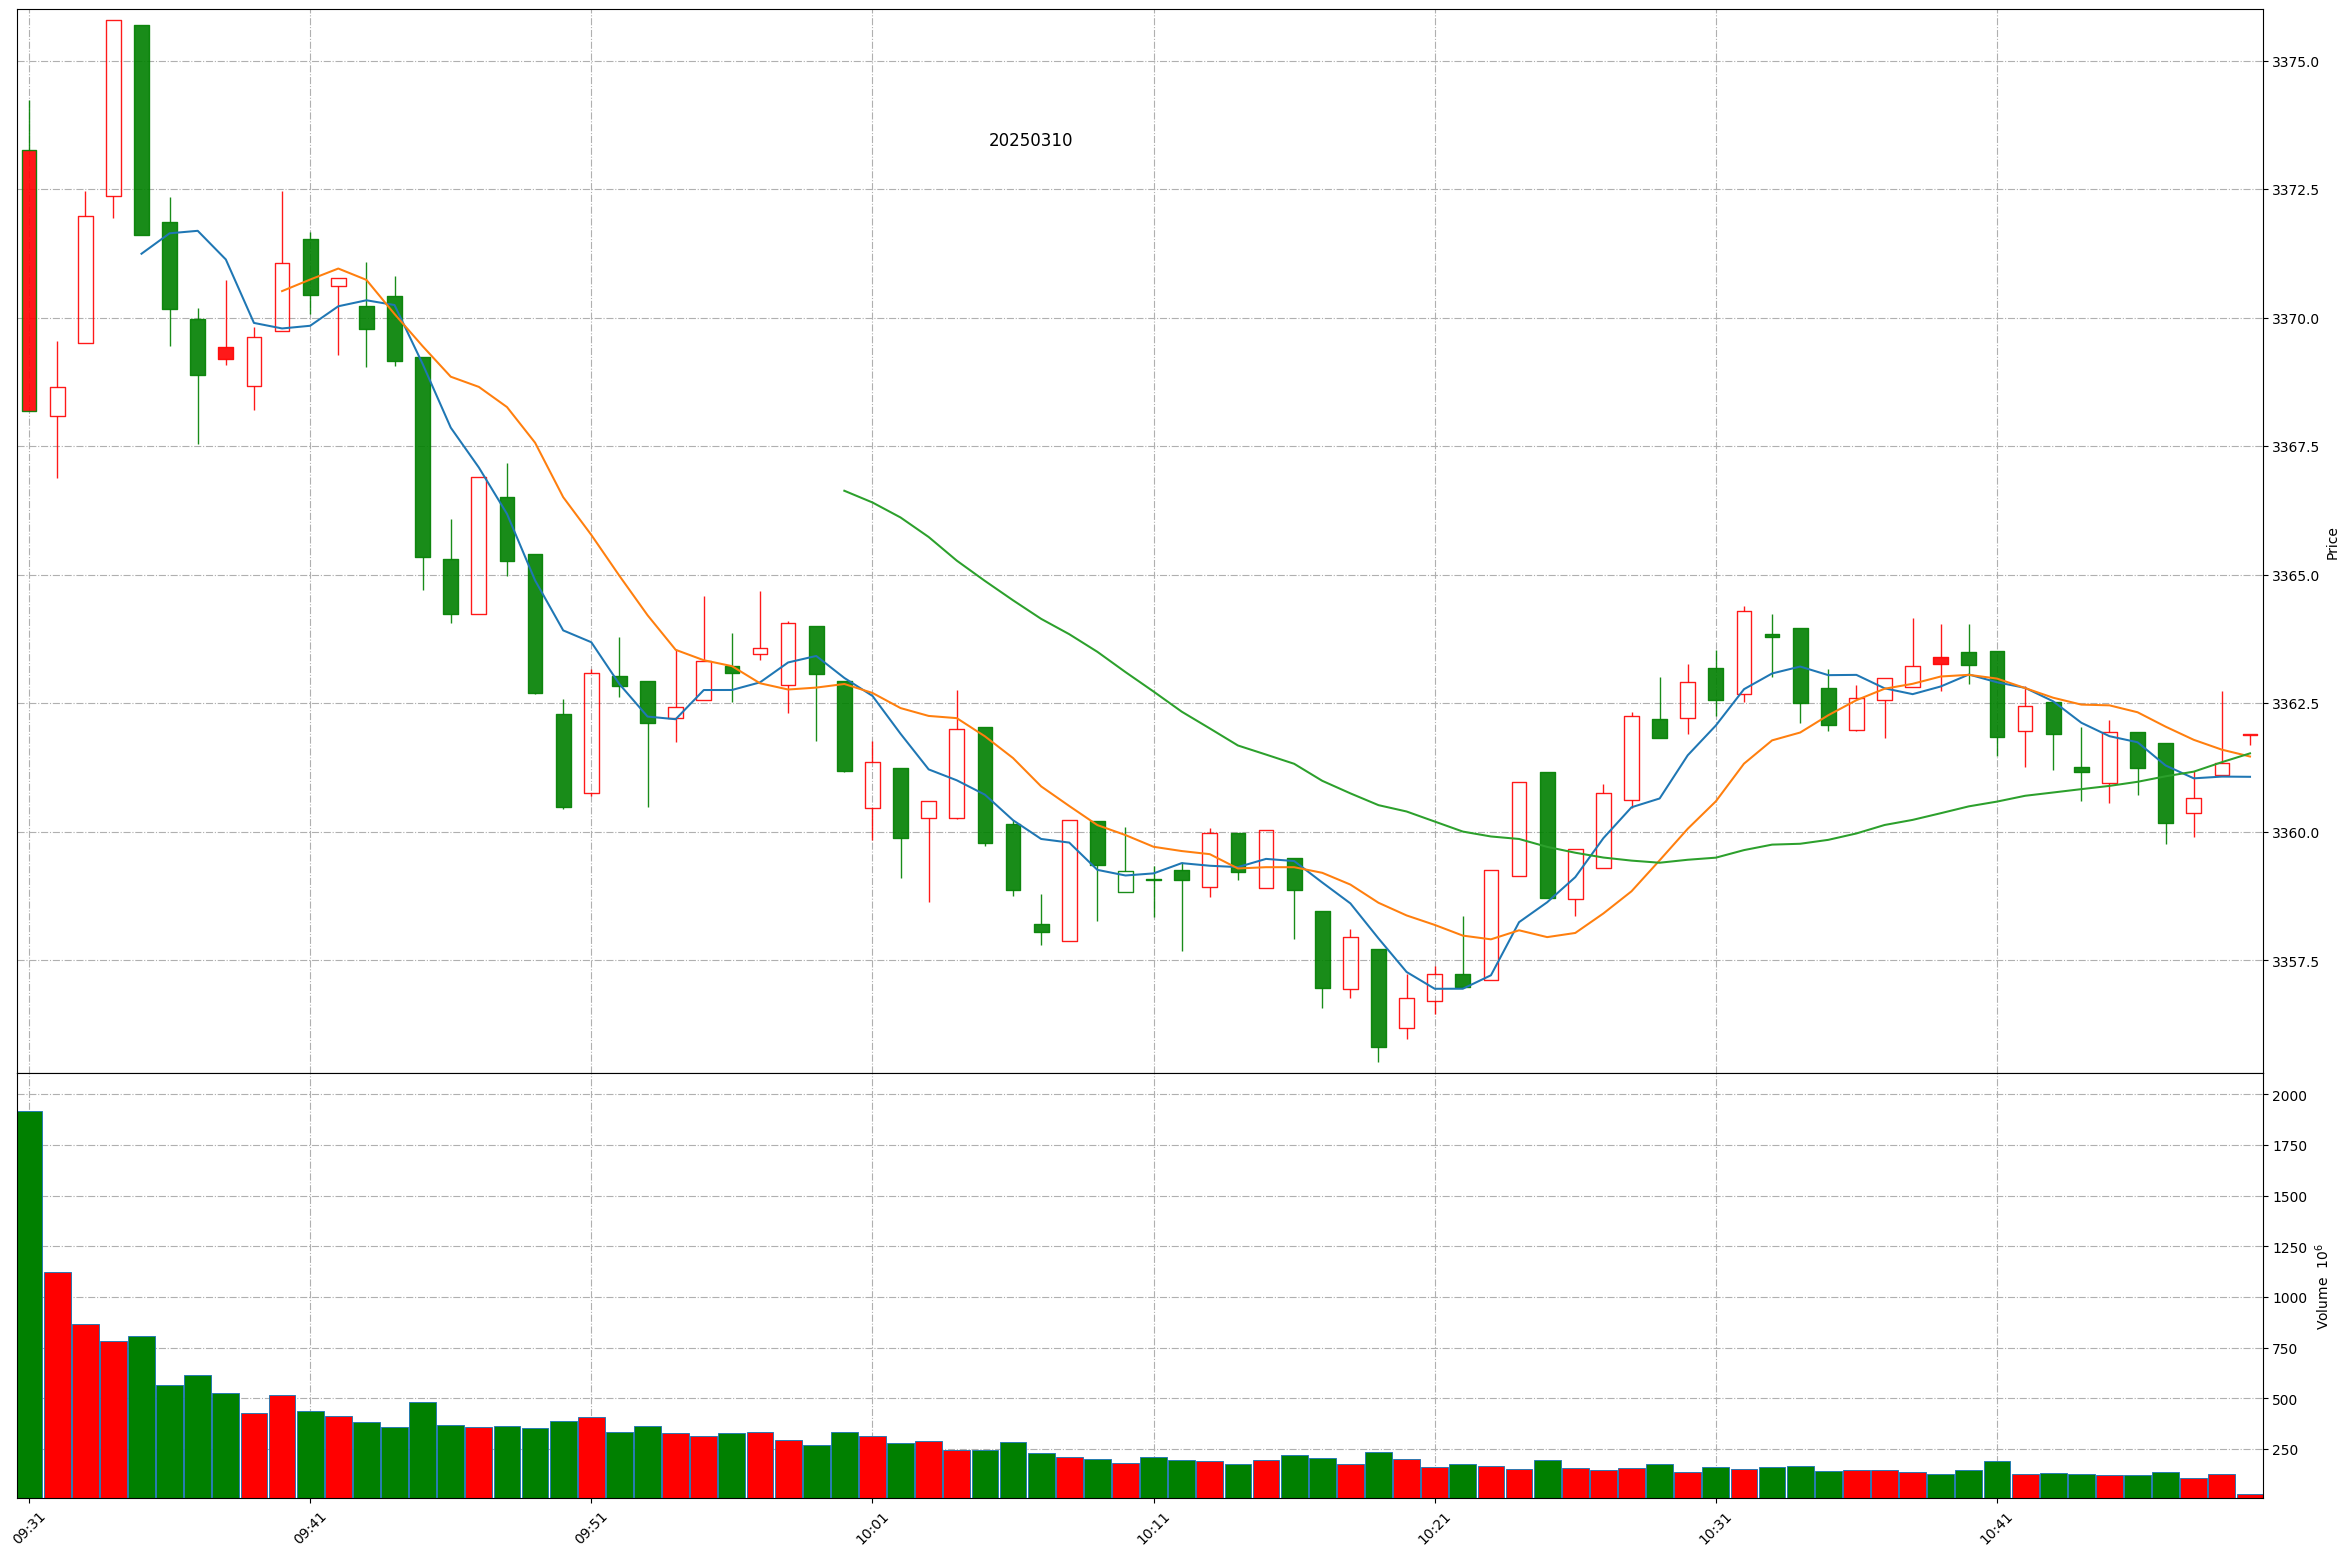
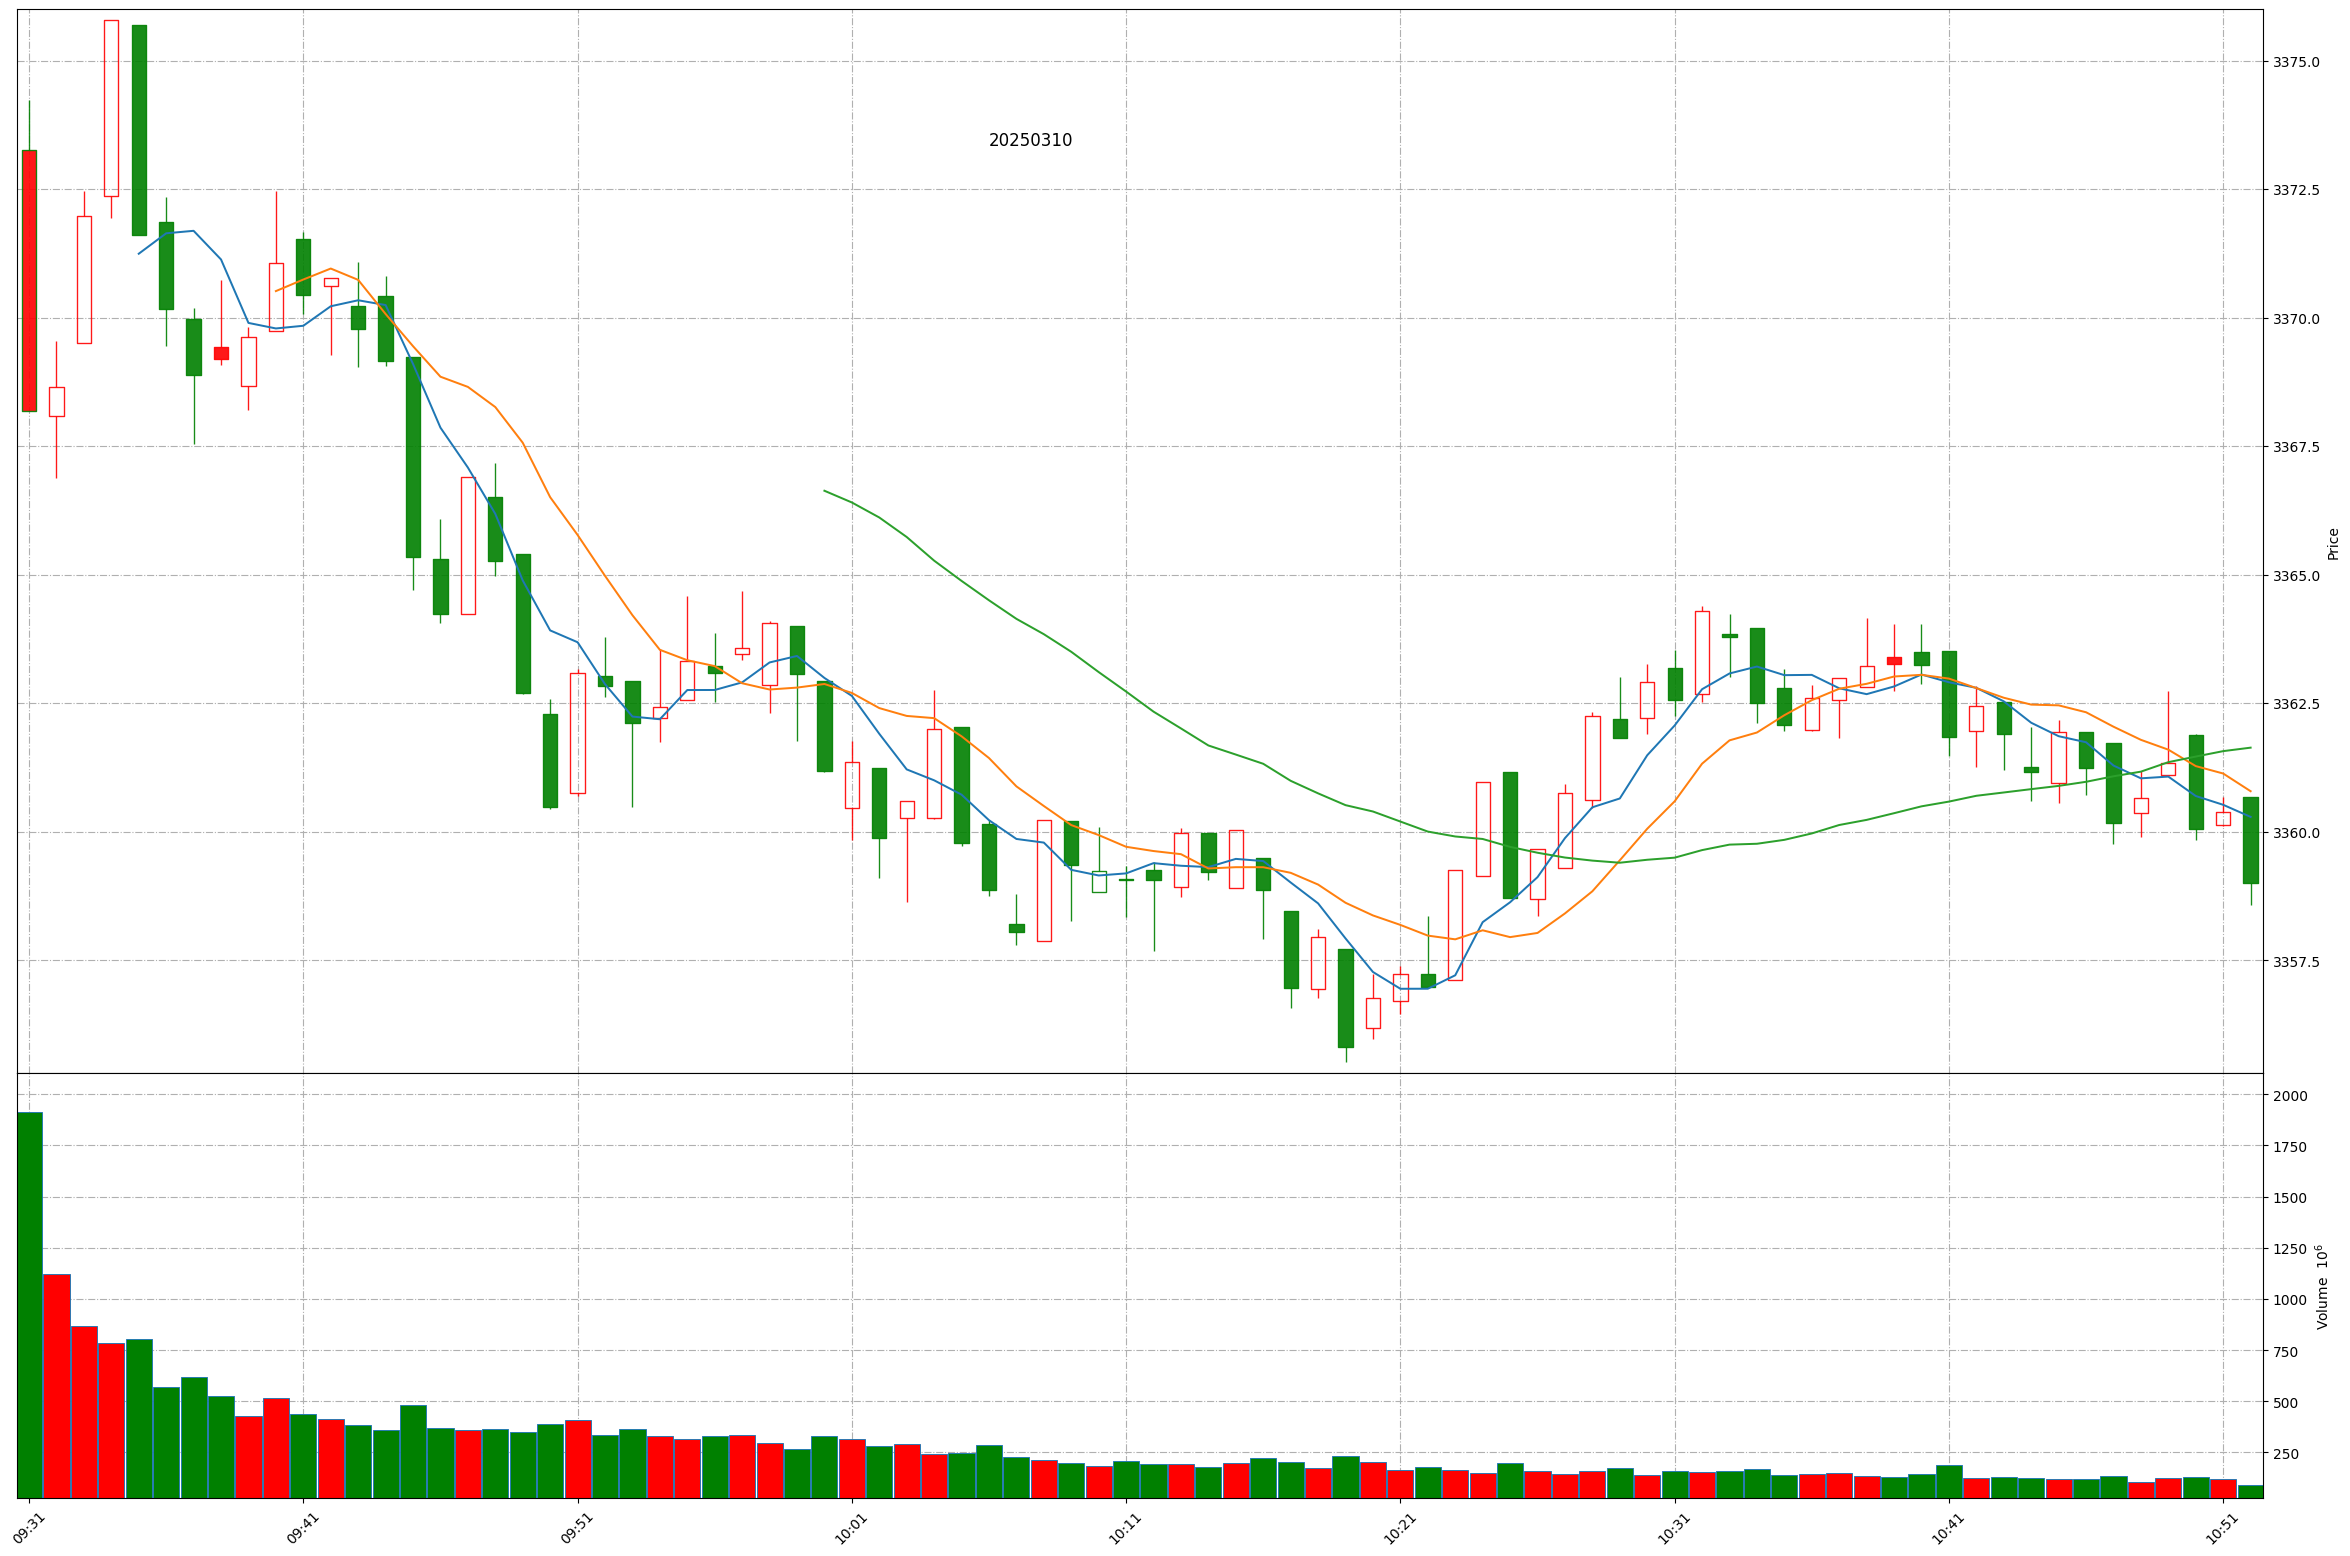
Github action update at 2025-03-10 10:51:37.

diff --git a/README.md b/README.md
@@ -1,11 +1,11 @@
 
 # Daily-A-share-market-quotes 每日 A 股指数（5min 更新）- 20250310
 
-### 上证指数 20250310 10:49
+### 上证指数 20250310 10:51
 ![](./fig/2025/3/20250310-sh000001.png)
 
-### 深证成指 20250310 10:49
+### 深证成指 20250310 10:51
 ![](./fig/2025/3/20250310-sz399001.png)
 
-### 北证50 20250310 10:49
+### 北证50 20250310 10:51
 ![](./fig/2025/3/20250310-bj899050.png)
